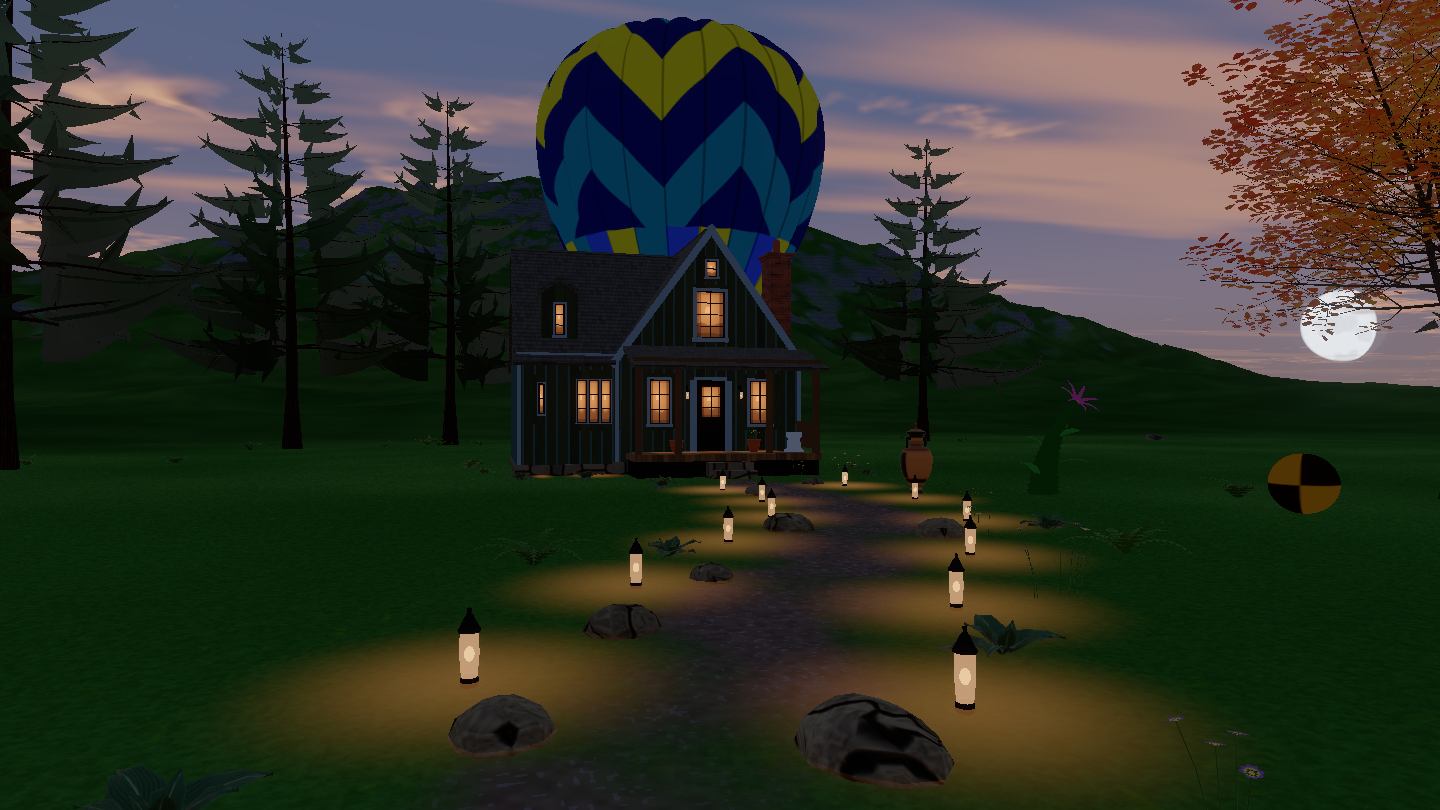
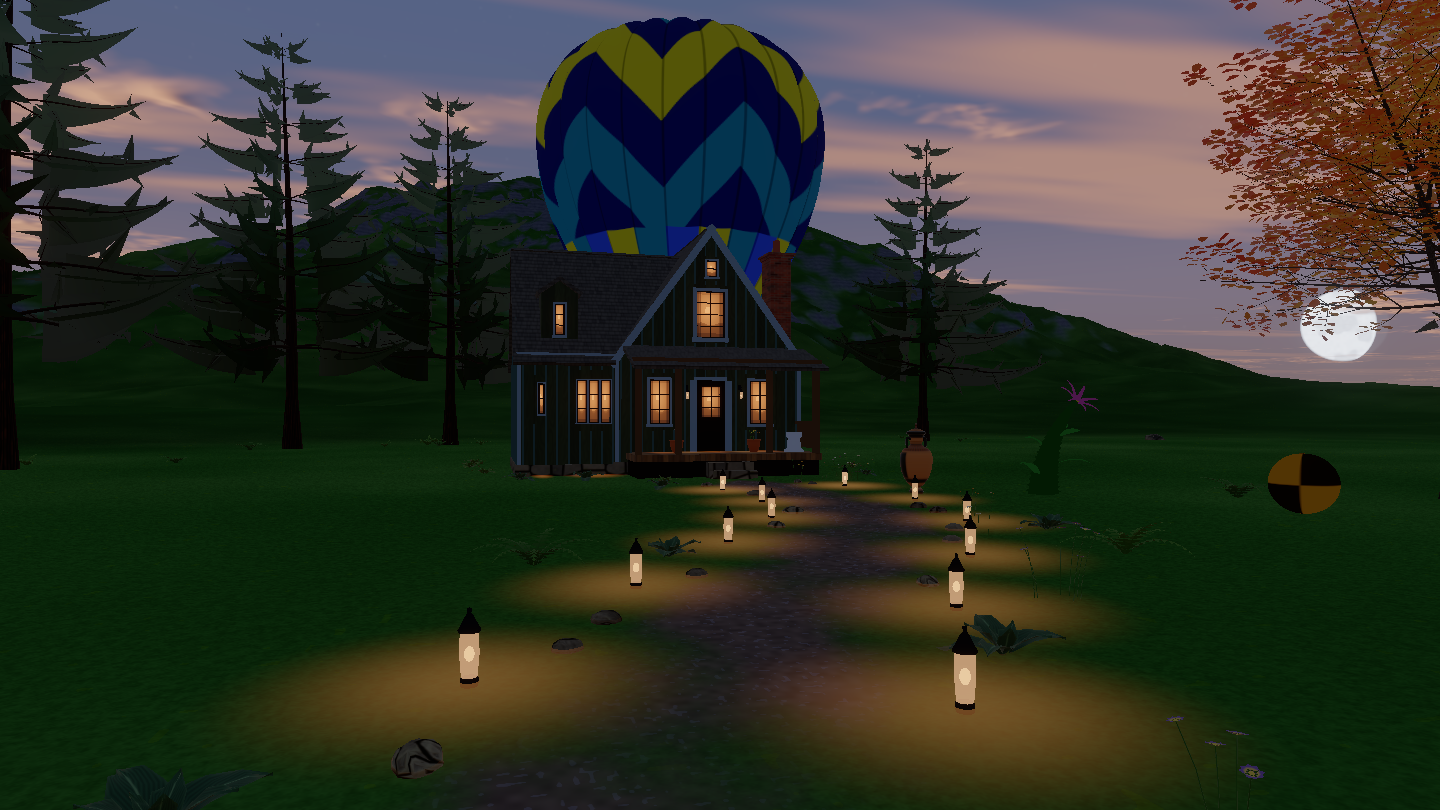
Edging: small low stones just outside the path's edge, rocks kept off the walking surface

diff --git a/browser/README.md b/browser/README.md
@@ -404,7 +404,7 @@ world actor's turn at the publish phase, so frames keep coming while the world a
 | specimen maples (two, 4 parts) | `weberpenn` red maples, fitted to the winter photograph, in full leaf (below) | 11.6 m and 10.6 m | 316,528 | 392 |
 | pines (63, 126 parts of three variants) | `weberpenn` white pines, tiers of needle plumes | 13 to 15.5 m | 1,144,536 | 336 |
 | forest maples (35, 70 parts of three variants) | `weberpenn` red maples, three levels, bigger plainer leaves | 8 to 10.5 m | 626,870 | 3 |
-| edging stones (150, four variants) | `noiserock` rounded stones in field-stone colours, set a third into the ground along the path | 0.2 to 0.5 m | 15,000 | 603 (bake 600) |
+| edging stones (335, four variants) | `noiserock` low rounded stones in field-stone colours, one every 0.7 to 1.1 m along both edges just outside the walking surface (0.03 to 0.2 m clear of it, never on it), a quarter of their height sunk into the ground | 0.25 to 0.5 m across (the larger at bends) | 33,500 | 603 (bake 600) |
 | hostas and ferns (118, two each) | `leafrosette` | 0.5 to 1 m | 60,048 | 0.5 |
 | flowers (16 clumps, six variants) | `leafrosette` | 0.4 m | 7,040 | 0.2 |
 | cottage (26 parts: plinth, walls, battens, roofs, trim, window frames and panes, door and its panes, porch deck, skirt, posts, roof and steps, chimney shaft, stack, flaunching and pot, two wall lanterns) | new (`cottage.cone`, `chimney.cone`): measured from the reference frame with the door as the ruler (below); boxes, prisms and slabs; board, shingle, deck and flagstone maps from the `surfacepatterns` texture kit; the chimney is the stack of step 4 on a brick shaft from the ground, 3.3 m + 4 m | 7 m to the ridge, 7.3 m to the pot | 5,044 | 870 (the texture kit's four bakes 610, the chimney's maps 260) |
@@ -483,7 +483,7 @@ yellow-green in the sun, the very sunniest with a hint of spring's red, petioles
 `BarkParams.redMaple`, the pine's `BarkParams.pine` greyed; the pine's needles deep blue-green; hostas one
 blue-grey and one yellow-green, ferns two greens, flowers buttercup, white and violet.
 
-**Counts and cost.** 98 trees (63 pines, 35 forest maples) and 2 specimens, 108 rocks, 150 edging stones, 21
+**Counts and cost.** 98 trees (63 pines, 35 forest maples) and 2 specimens, 106 rocks, 335 edging stones, 21
 hostas, 97 ferns, 16 flower clumps: 656 parts in all, 2,959,446 triangles of the world's 3,530,352 drawn (with
 the island, sky and cottage), against 1,336,138 and 67 parts without (`--no-vegetation`). Frame times at the
 start view, `--watch`, the p50 of the whole frame with and without: on the RTX 4060 6.97 and 6.99 ms (its render
